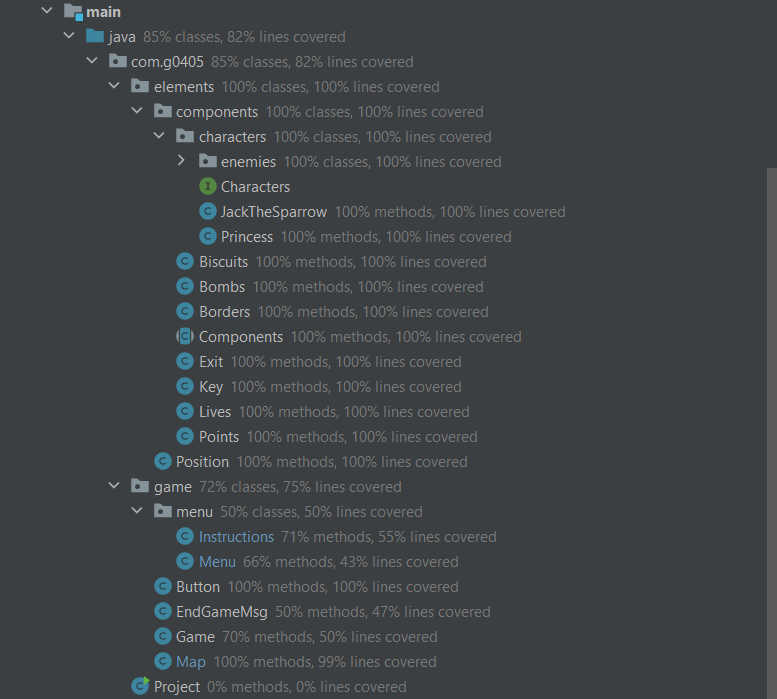
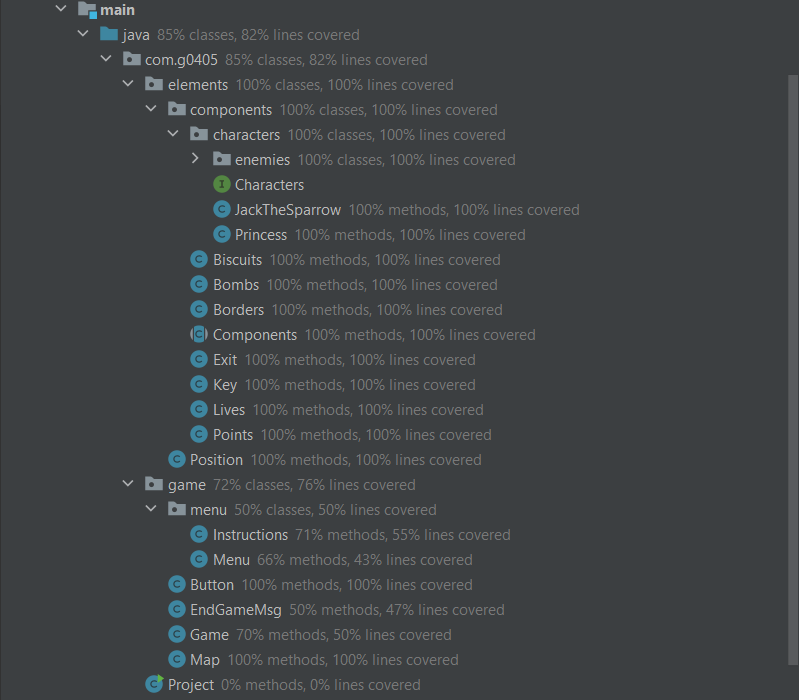
Readme final touches

Changed region(s): [[0.0618, 0.0, 0.7413, 1.0], [0.9884, 0.0901, 1.0, 1.0]]

diff --git a/docs/reports/index.html b/docs/reports/index.html
@@ -10,20 +10,20 @@
 <h3>Project Summary</h3>
 <table>
     <thead>
-        <tr>
-            <th>Number of Classes</th>
-            <th>Line Coverage</th>
-            <th>Mutation Coverage</th>
-            <th>Test Strength</th>
-        </tr>
+    <tr>
+        <th>Number of Classes</th>
+        <th>Line Coverage</th>
+        <th>Mutation Coverage</th>
+        <th>Test Strength</th>
+    </tr>
     </thead>
     <tbody>
-        <tr>
-            <td>15</td>
-            <td>63% <div class="coverage_bar"><div class="coverage_complete width-63"></div><div class="coverage_legend">347/554</div></div></td>
-            <td>50% <div class="coverage_bar"><div class="coverage_complete width-50"></div><div class="coverage_legend">187/372</div></div></td>
-            <td>73% <div class="coverage_bar"><div class="coverage_complete width-73"></div><div class="coverage_legend">187/255</div></div></td>
-        </tr>
+    <tr>
+        <td>15</td>
+        <td>62% <div class="coverage_bar"><div class="coverage_complete width-62"></div><div class="coverage_legend">346/554</div></div></td>
+        <td>50% <div class="coverage_bar"><div class="coverage_complete width-50"></div><div class="coverage_legend">186/372</div></div></td>
+        <td>73% <div class="coverage_bar"><div class="coverage_complete width-73"></div><div class="coverage_legend">186/254</div></div></td>
+    </tr>
     </tbody>
 </table>
 
@@ -31,73 +31,73 @@
 <h3>Breakdown by Package</h3>
 <table>
     <thead>
-        <tr>
-            <th>Name</th>
-            <th>Number of Classes</th>
-            <th>Line Coverage</th>
-            <th>Mutation Coverage</th>
-            <th>Test Strength</th>
-        </tr>
+    <tr>
+        <th>Name</th>
+        <th>Number of Classes</th>
+        <th>Line Coverage</th>
+        <th>Mutation Coverage</th>
+        <th>Test Strength</th>
+    </tr>
     </thead>
     <tbody>
 
-        <tr>
-            <td><a href="./com.g0405/index.html">com.g0405</a></td>
-            <td>1</td>
-            <td><div class="coverage_percentage">0% </div><div class="coverage_bar"><div class="coverage_complete width-0"></div><div class="coverage_legend">0/6</div></div></td>
-            <td><div class="coverage_percentage">0% </div><div class="coverage_bar"><div class="coverage_complete width-0"></div><div class="coverage_legend">0/2</div></div></td>
-            <td><div class="coverage_percentage">0% </div><div class="coverage_bar"><div class="coverage_complete width-0"></div><div class="coverage_legend">0/0</div></div></td>
-        </tr>
+    <tr>
+        <td><a href="./com.g0405/index.html">com.g0405</a></td>
+        <td>1</td>
+        <td><div class="coverage_percentage">0% </div><div class="coverage_bar"><div class="coverage_complete width-0"></div><div class="coverage_legend">0/6</div></div></td>
+        <td><div class="coverage_percentage">0% </div><div class="coverage_bar"><div class="coverage_complete width-0"></div><div class="coverage_legend">0/2</div></div></td>
+        <td><div class="coverage_percentage">0% </div><div class="coverage_bar"><div class="coverage_complete width-0"></div><div class="coverage_legend">0/0</div></div></td>
+    </tr>
 
-        <tr>
-            <td><a href="./com.g0405.elements/index.html">com.g0405.elements</a></td>
-            <td>1</td>
-            <td><div class="coverage_percentage">100% </div><div class="coverage_bar"><div class="coverage_complete width-100"></div><div class="coverage_legend">17/17</div></div></td>
-            <td><div class="coverage_percentage">100% </div><div class="coverage_bar"><div class="coverage_complete width-100"></div><div class="coverage_legend">17/17</div></div></td>
-            <td><div class="coverage_percentage">100% </div><div class="coverage_bar"><div class="coverage_complete width-100"></div><div class="coverage_legend">17/17</div></div></td>
-        </tr>
+    <tr>
+        <td><a href="./com.g0405.elements/index.html">com.g0405.elements</a></td>
+        <td>1</td>
+        <td><div class="coverage_percentage">100% </div><div class="coverage_bar"><div class="coverage_complete width-100"></div><div class="coverage_legend">17/17</div></div></td>
+        <td><div class="coverage_percentage">100% </div><div class="coverage_bar"><div class="coverage_complete width-100"></div><div class="coverage_legend">17/17</div></div></td>
+        <td><div class="coverage_percentage">100% </div><div class="coverage_bar"><div class="coverage_complete width-100"></div><div class="coverage_legend">17/17</div></div></td>
+    </tr>
 
-        <tr>
-            <td><a href="./com.g0405.elements.components/index.html">com.g0405.elements.components</a></td>
-            <td>3</td>
-            <td><div class="coverage_percentage">100% </div><div class="coverage_bar"><div class="coverage_complete width-100"></div><div class="coverage_legend">29/29</div></div></td>
-            <td><div class="coverage_percentage">75% </div><div class="coverage_bar"><div class="coverage_complete width-75"></div><div class="coverage_legend">6/8</div></div></td>
-            <td><div class="coverage_percentage">75% </div><div class="coverage_bar"><div class="coverage_complete width-75"></div><div class="coverage_legend">6/8</div></div></td>
-        </tr>
+    <tr>
+        <td><a href="./com.g0405.elements.components/index.html">com.g0405.elements.components</a></td>
+        <td>3</td>
+        <td><div class="coverage_percentage">100% </div><div class="coverage_bar"><div class="coverage_complete width-100"></div><div class="coverage_legend">29/29</div></div></td>
+        <td><div class="coverage_percentage">75% </div><div class="coverage_bar"><div class="coverage_complete width-75"></div><div class="coverage_legend">6/8</div></div></td>
+        <td><div class="coverage_percentage">75% </div><div class="coverage_bar"><div class="coverage_complete width-75"></div><div class="coverage_legend">6/8</div></div></td>
+    </tr>
 
-        <tr>
-            <td><a href="./com.g0405.elements.components.characters/index.html">com.g0405.elements.components.characters</a></td>
-            <td>2</td>
-            <td><div class="coverage_percentage">100% </div><div class="coverage_bar"><div class="coverage_complete width-100"></div><div class="coverage_legend">55/55</div></div></td>
-            <td><div class="coverage_percentage">100% </div><div class="coverage_bar"><div class="coverage_complete width-100"></div><div class="coverage_legend">21/21</div></div></td>
-            <td><div class="coverage_percentage">100% </div><div class="coverage_bar"><div class="coverage_complete width-100"></div><div class="coverage_legend">21/21</div></div></td>
-        </tr>
+    <tr>
+        <td><a href="./com.g0405.elements.components.characters/index.html">com.g0405.elements.components.characters</a></td>
+        <td>2</td>
+        <td><div class="coverage_percentage">100% </div><div class="coverage_bar"><div class="coverage_complete width-100"></div><div class="coverage_legend">55/55</div></div></td>
+        <td><div class="coverage_percentage">100% </div><div class="coverage_bar"><div class="coverage_complete width-100"></div><div class="coverage_legend">21/21</div></div></td>
+        <td><div class="coverage_percentage">100% </div><div class="coverage_bar"><div class="coverage_complete width-100"></div><div class="coverage_legend">21/21</div></div></td>
+    </tr>
 
-        <tr>
-            <td><a href="./com.g0405.elements.components.characters.enemies/index.html">com.g0405.elements.components.characters.enemies</a></td>
-            <td>2</td>
-            <td><div class="coverage_percentage">100% </div><div class="coverage_bar"><div class="coverage_complete width-100"></div><div class="coverage_legend">62/62</div></div></td>
-            <td><div class="coverage_percentage">85% </div><div class="coverage_bar"><div class="coverage_complete width-85"></div><div class="coverage_legend">41/48</div></div></td>
-            <td><div class="coverage_percentage">85% </div><div class="coverage_bar"><div class="coverage_complete width-85"></div><div class="coverage_legend">41/48</div></div></td>
-        </tr>
+    <tr>
+        <td><a href="./com.g0405.elements.components.characters.enemies/index.html">com.g0405.elements.components.characters.enemies</a></td>
+        <td>2</td>
+        <td><div class="coverage_percentage">100% </div><div class="coverage_bar"><div class="coverage_complete width-100"></div><div class="coverage_legend">62/62</div></div></td>
+        <td><div class="coverage_percentage">83% </div><div class="coverage_bar"><div class="coverage_complete width-83"></div><div class="coverage_legend">40/48</div></div></td>
+        <td><div class="coverage_percentage">83% </div><div class="coverage_bar"><div class="coverage_complete width-83"></div><div class="coverage_legend">40/48</div></div></td>
+    </tr>
 
-        <tr>
-            <td><a href="./com.g0405.game/index.html">com.g0405.game</a></td>
-            <td>4</td>
-            <td><div class="coverage_percentage">58% </div><div class="coverage_bar"><div class="coverage_complete width-58"></div><div class="coverage_legend">184/317</div></div></td>
-            <td><div class="coverage_percentage">43% </div><div class="coverage_bar"><div class="coverage_complete width-43"></div><div class="coverage_legend">102/235</div></div></td>
-            <td><div class="coverage_percentage">63% </div><div class="coverage_bar"><div class="coverage_complete width-63"></div><div class="coverage_legend">102/161</div></div></td>
-        </tr>
+    <tr>
+        <td><a href="./com.g0405.game/index.html">com.g0405.game</a></td>
+        <td>4</td>
+        <td><div class="coverage_percentage">58% </div><div class="coverage_bar"><div class="coverage_complete width-58"></div><div class="coverage_legend">183/317</div></div></td>
+        <td><div class="coverage_percentage">43% </div><div class="coverage_bar"><div class="coverage_complete width-43"></div><div class="coverage_legend">102/235</div></div></td>
+        <td><div class="coverage_percentage">64% </div><div class="coverage_bar"><div class="coverage_complete width-64"></div><div class="coverage_legend">102/160</div></div></td>
+    </tr>
 
-        <tr>
-            <td><a href="./com.g0405.game.menu/index.html">com.g0405.game.menu</a></td>
-            <td>2</td>
-            <td><div class="coverage_percentage">0% </div><div class="coverage_bar"><div class="coverage_complete width-0"></div><div class="coverage_legend">0/68</div></div></td>
-            <td><div class="coverage_percentage">0% </div><div class="coverage_bar"><div class="coverage_complete width-0"></div><div class="coverage_legend">0/41</div></div></td>
-            <td><div class="coverage_percentage">0% </div><div class="coverage_bar"><div class="coverage_complete width-0"></div><div class="coverage_legend">0/0</div></div></td>
-        </tr>
+    <tr>
+        <td><a href="./com.g0405.game.menu/index.html">com.g0405.game.menu</a></td>
+        <td>2</td>
+        <td><div class="coverage_percentage">0% </div><div class="coverage_bar"><div class="coverage_complete width-0"></div><div class="coverage_legend">0/68</div></div></td>
+        <td><div class="coverage_percentage">0% </div><div class="coverage_bar"><div class="coverage_complete width-0"></div><div class="coverage_legend">0/41</div></div></td>
+        <td><div class="coverage_percentage">0% </div><div class="coverage_bar"><div class="coverage_complete width-0"></div><div class="coverage_legend">0/0</div></div></td>
+    </tr>
 
-     </tbody>
+    </tbody>
 </table>
 <br/>
 

diff --git a/docs/README.md b/docs/README.md
@@ -18,7 +18,7 @@ This project was developed by _André Costa_ (https://github.com/AndreCosta20190
   * [Jack the Sparrow](#jack-the-sparrow)
   * [Enemies](#enemies)
   * [Princess](#princess)
-* [Planned Features](#planned-features)
+* [Features](#features)
 * [Design](#design)
   * [Enemies](#enemies-1)
     * [Problem in Context](#problem-in-context)
@@ -92,14 +92,13 @@ This project was developed by _André Costa_ (https://github.com/AndreCosta20190
     <img width=550 src="images/rescuePrincess.gif">
 </p>
 
-## Planned Features
+## Features
 
 - **Different Pirates** - We will make three kinds of Pirates, each one with different speeds and the bigger one will leave bombs behind.
 - **Menu** - There will be a menu when you open the game with some buttons.
 - **Personalized Font** - We'll create a new font to have our characters and some objects printed on the game.
 - **Game Over** - After you die there will be a message on the screen saying that you've died and if you want to restart playing.
 - **Lives and score** - On the lower portion of the game will have the amount of lives remaining and how many biscuits you have caught.
-- **Sounds and music** - There will be background music and each time Jack catches anything a sound will be played.
 
 ## Design
 

diff --git a/README.md b/README.md
@@ -4,11 +4,14 @@
 
 Our game consists in a text-based version of the Crossy Road game with some SuperMario combinations and some new characters.
 
-For the player to finish each level with the highest score, it needs to catch all the biscuits and the special key to open the prison door where the Princess is being kept.
+The main character is Jack the Sparrow who is trying to free his Princess and for that he needs to avoid the Pirates and all explosions from the bombs and collect the special key.
 
-The main character is Jack the Sparrow who is trying to free his Princess, and for that he needs to avoid the Pirates and all explosions from the bombs and collect the special key.
+For the player to win the game with the highest score, it needs to catch all the biscuits, which represents the score, and the special key to open the prison door where the Princess is being kept.
 
-Each biscuit that Jack catches makes his score go up, but these are not necessary to release the Princess.
+After rescuing the Princess a door is opened and Jack needs to leave the map through that door.
+
+Each biscuit that Jack catches makes his score go up, but these are not necessary to release the Princess and finish the game.
+
 
 [**Full Report**](docs/README.md)
 
